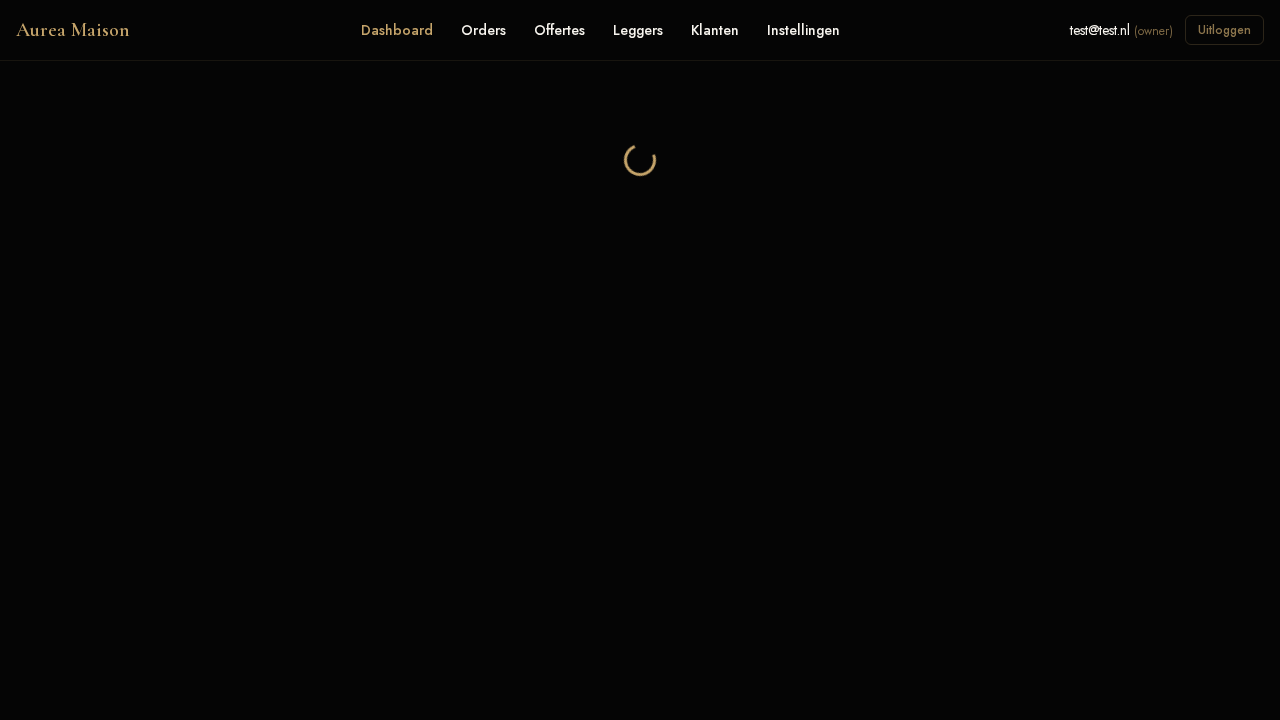
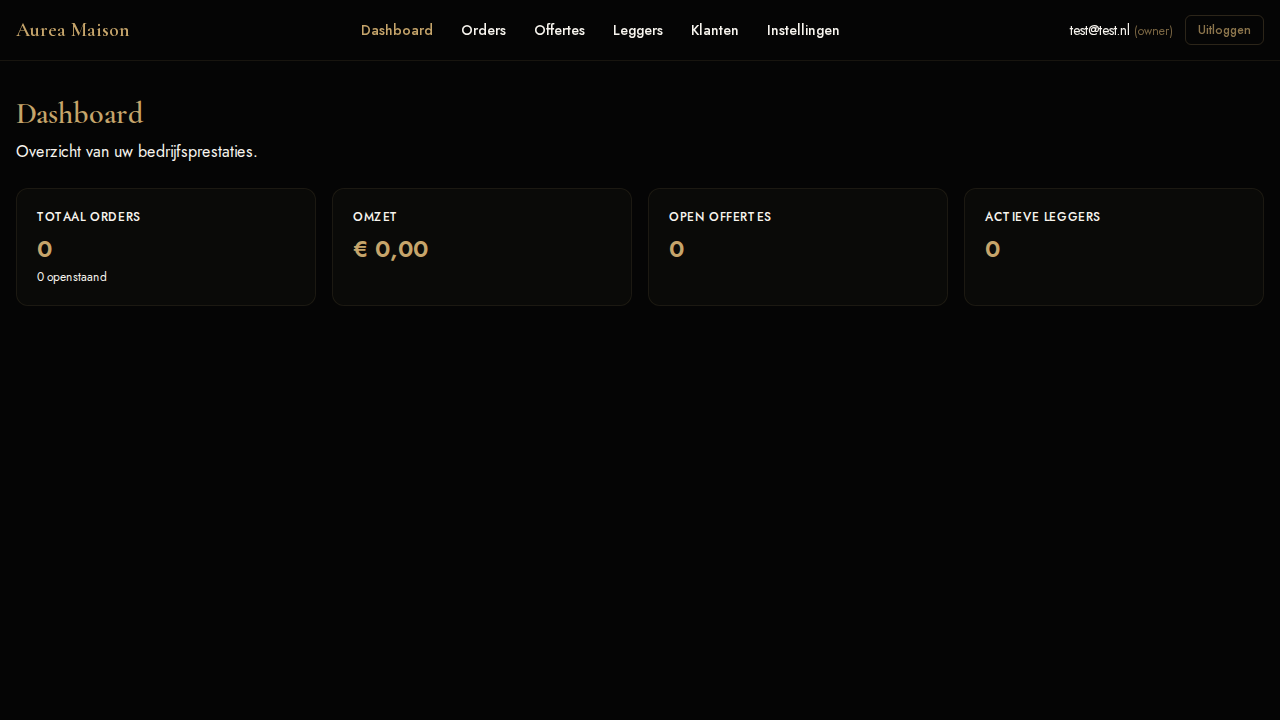
test: remove known-issue tolerance — all Supabase 403/500/42P17 errors now fail tests

diff --git a/e2e/debug-helpers.ts b/e2e/debug-helpers.ts
@@ -39,19 +39,13 @@ export function captureErrors(page: Page): CaptureResult {
   return result;
 }
 
-export function assertNoCriticalErrors(result: CaptureResult, allowKnown403 = true) {
+export function assertNoCriticalErrors(result: CaptureResult) {
   const criticalConsole = result.consoleLogs.filter((l) =>
     l.includes("42P17") || l.includes("infinite recursion") || l.includes("Profile fetch error")
   );
-  const criticalHttp = result.httpErrors.filter((l) => {
-    // Allow known 403 from orders_read_client using auth.users subquery
-    // This is fixed in fix_rls_recursion.sql but needs to be run in Supabase
-    if (allowKnown403 && l.includes("42501") && l.includes("auth.users")) {
-      console.warn("[KNOWN ISSUE] 403 from orders_read_client — run fix_rls_recursion.sql in Supabase");
-      return false;
-    }
-    return l.includes("supabase") && (l.includes("500") || l.includes("42P17"));
-  });
+  const criticalHttp = result.httpErrors.filter((l) =>
+    l.includes("supabase") && (l.includes("500") || l.includes("42P17") || l.includes("403"))
+  );
 
   if (criticalConsole.length > 0 || criticalHttp.length > 0) {
     const msg = [